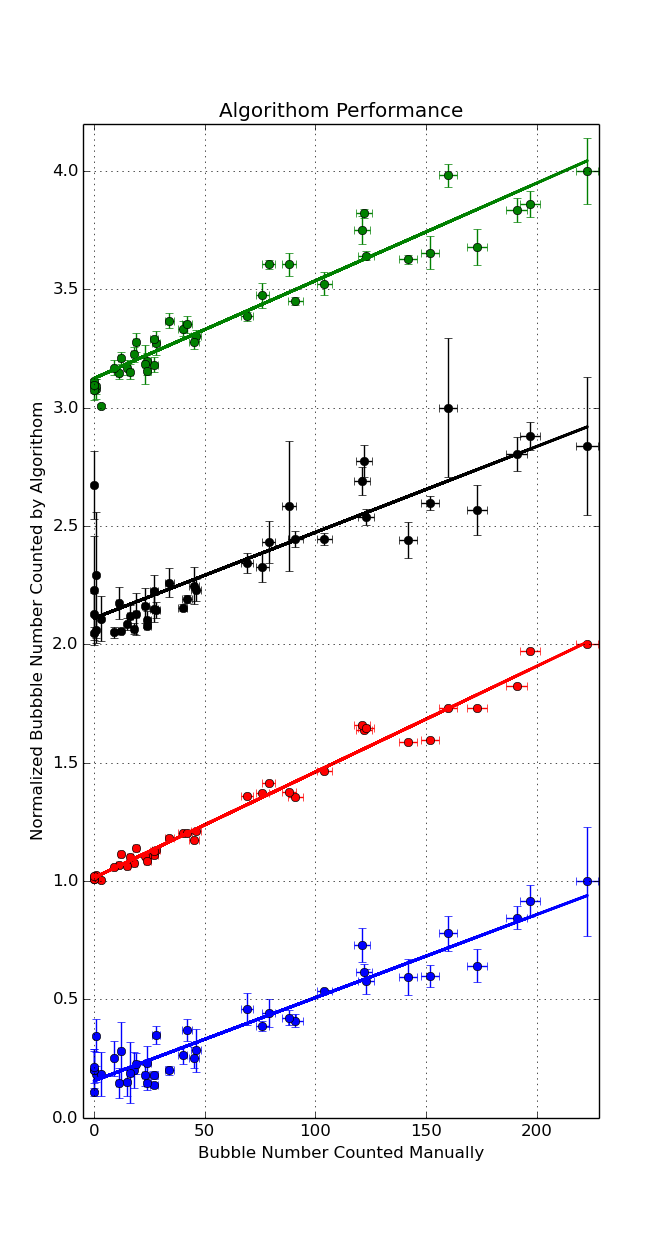
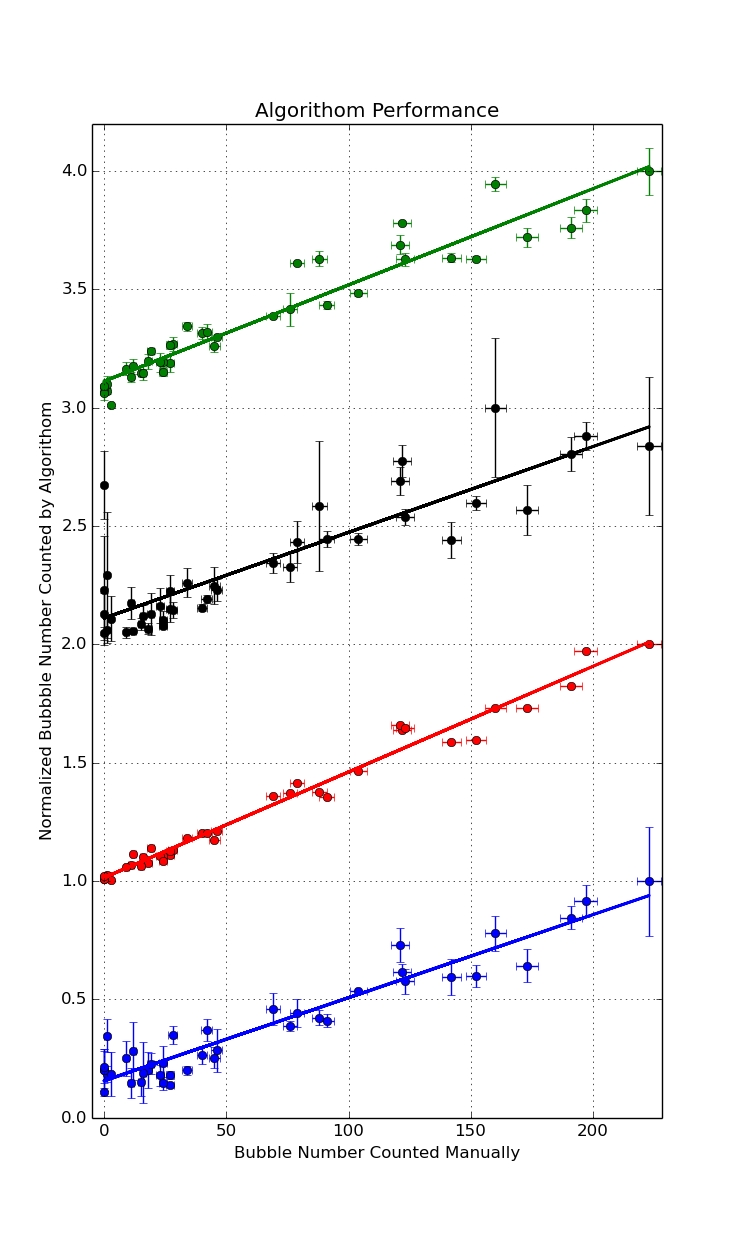
svm result

diff --git a/src/linearity-comparison/ComparisonPlot.py b/src/linearity-comparison/ComparisonPlot.py
@@ -16,8 +16,8 @@ def ord_function(beta,x):
 def main():
     try:
 
-        legend = ['curvature', 'neural-network', 'hough transform', 'SVM-Preliminary']
-	data_filename = ['number.txt', 'skflow.txt', 'curvature.txt', 'SVM.txt']
+        legend = ['curvature', 'neural-network', 'hough transform', 'SVM']
+	data_filename = ['number.txt', 'skflow.txt', 'curvature.txt', 'data.txt']
         colors = ['blue', 'red', 'black', 'green']
 
         annotation_text = "function:  y = kx + b";

diff --git a/src/neural-network/NeuralNetwork_skflow.py b/src/neural-network/NeuralNetwork_skflow.py
@@ -40,8 +40,8 @@ def main():
         hidden_units =[500,1000,500],
         n_classes = label_option,
         batch_size = 200000,
-        steps = 1,
-        learning_rate = 0.01)
+        steps = 1000,
+        learning_rate = 0.001)
 
       classifier.fit(trainDS.train.images, np.argmax(trainDS.train.labels, axis = 1))
    
